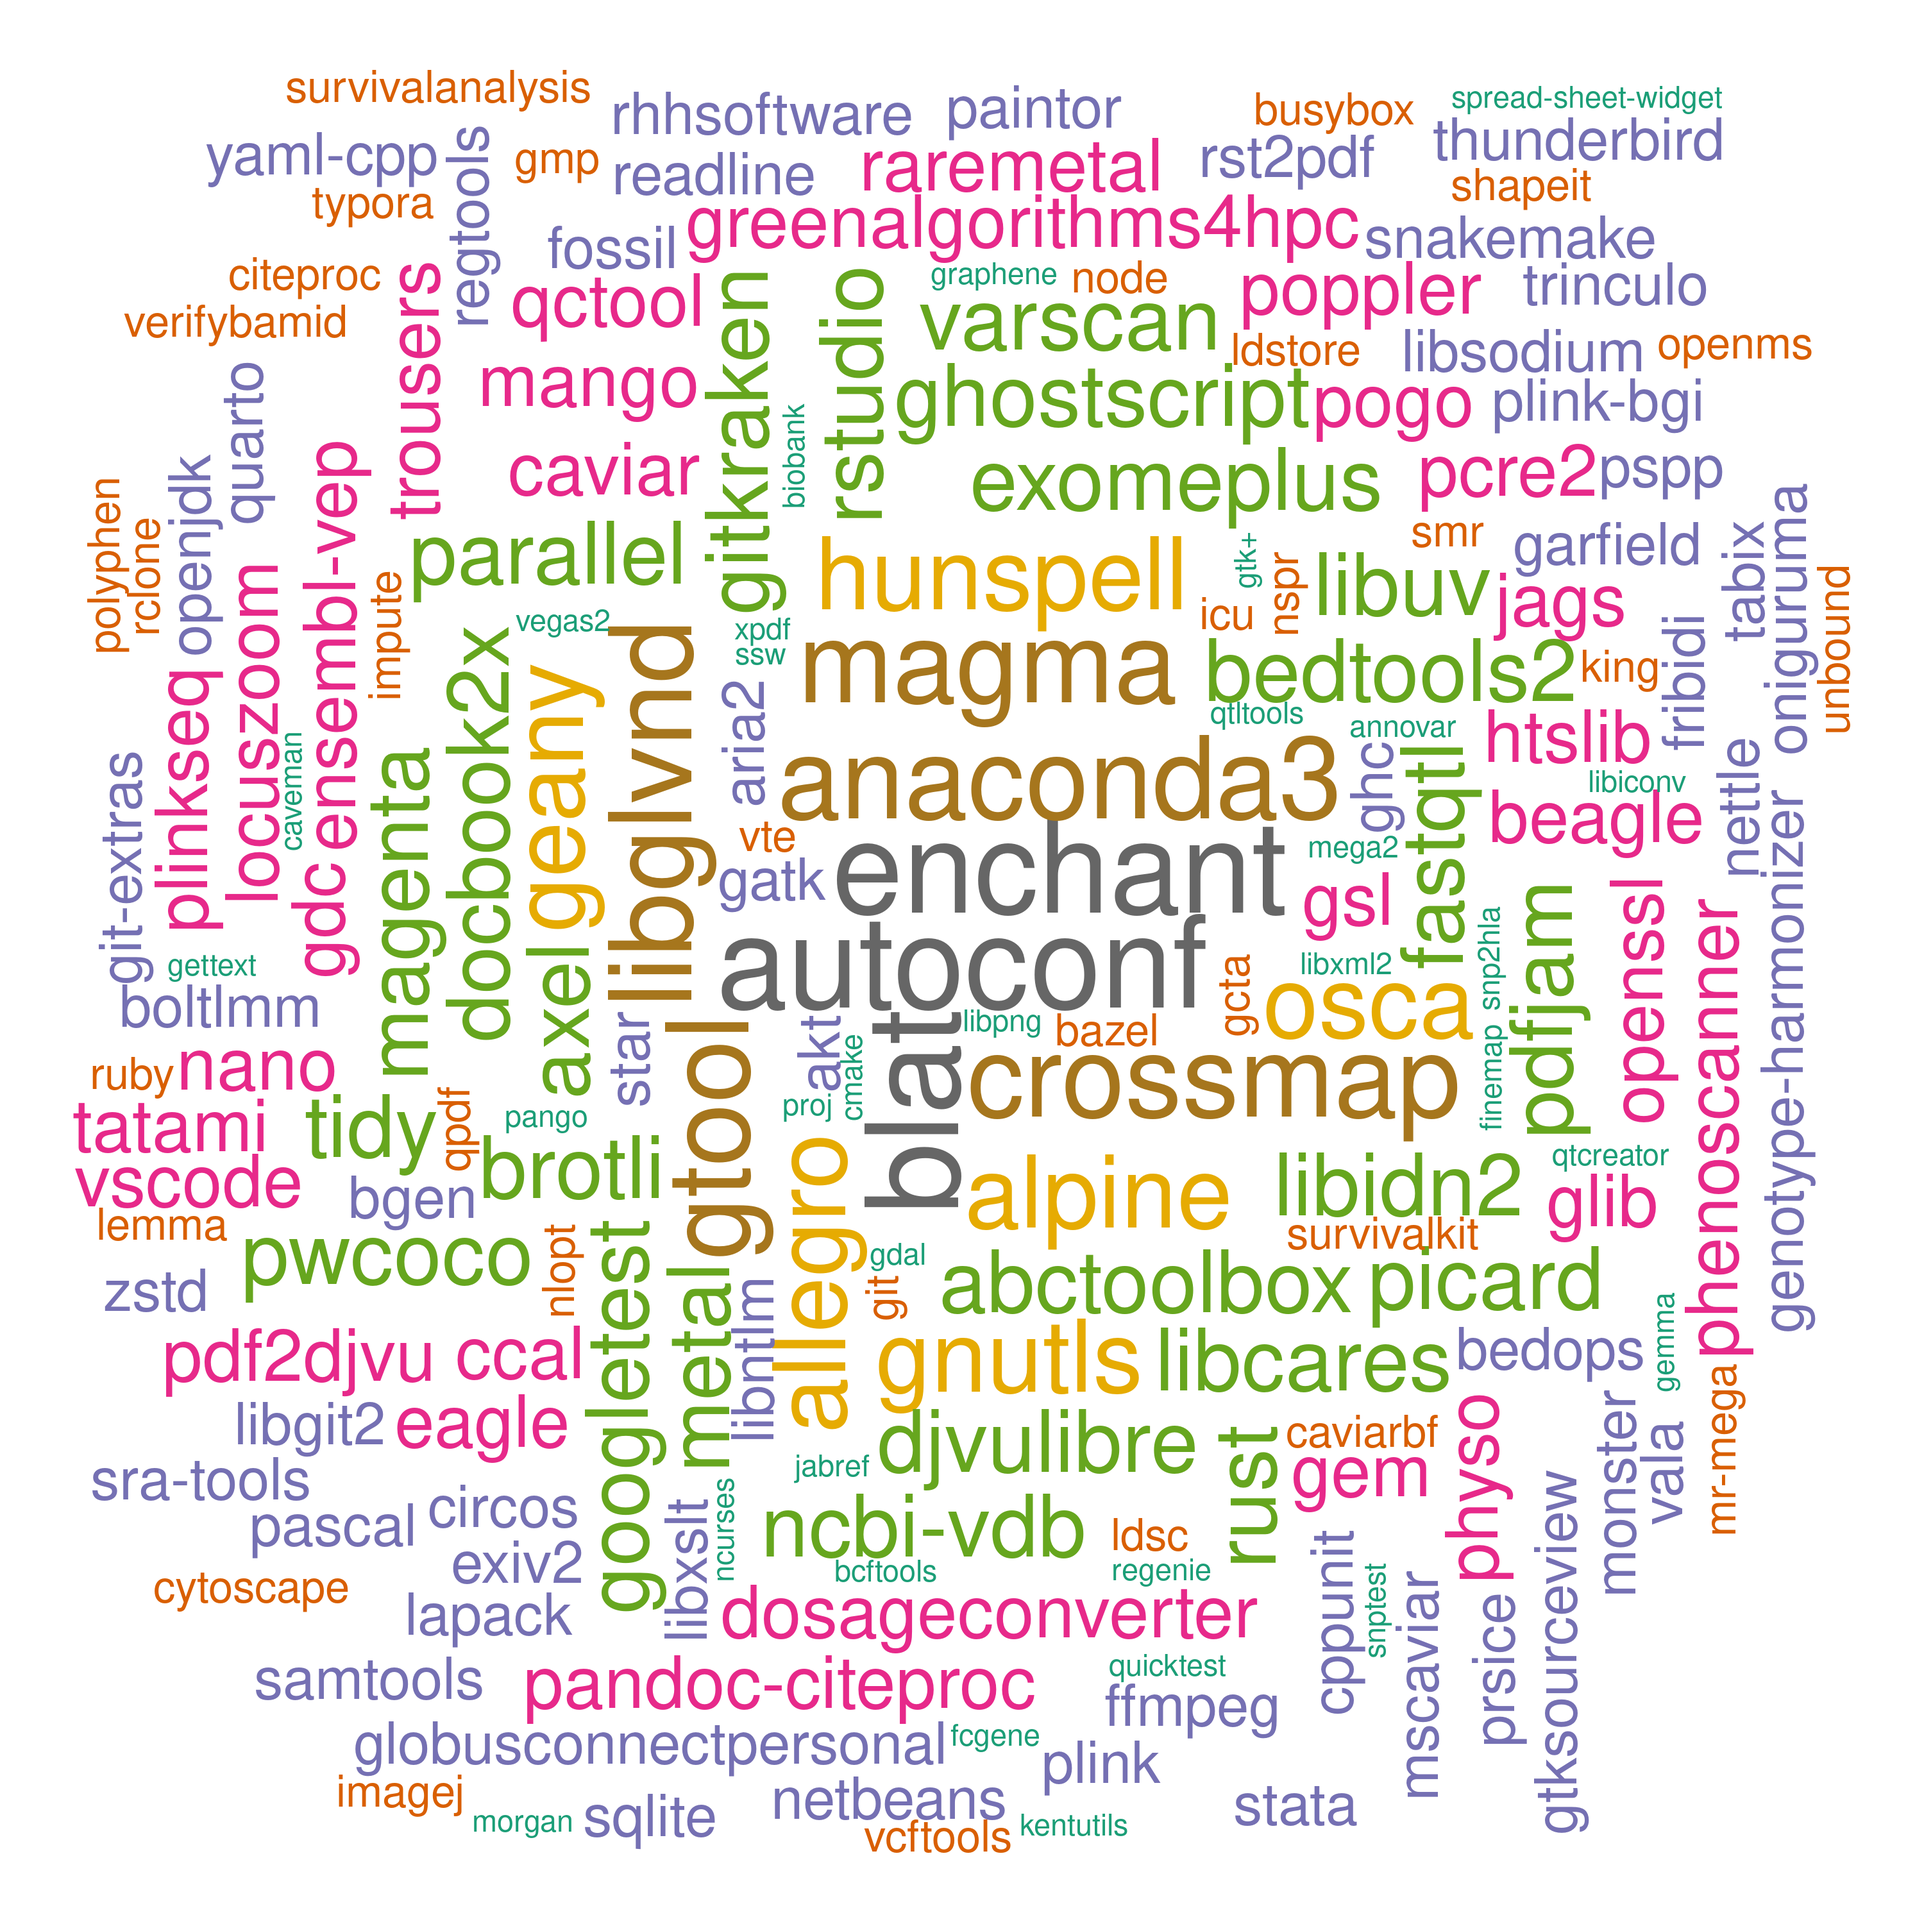
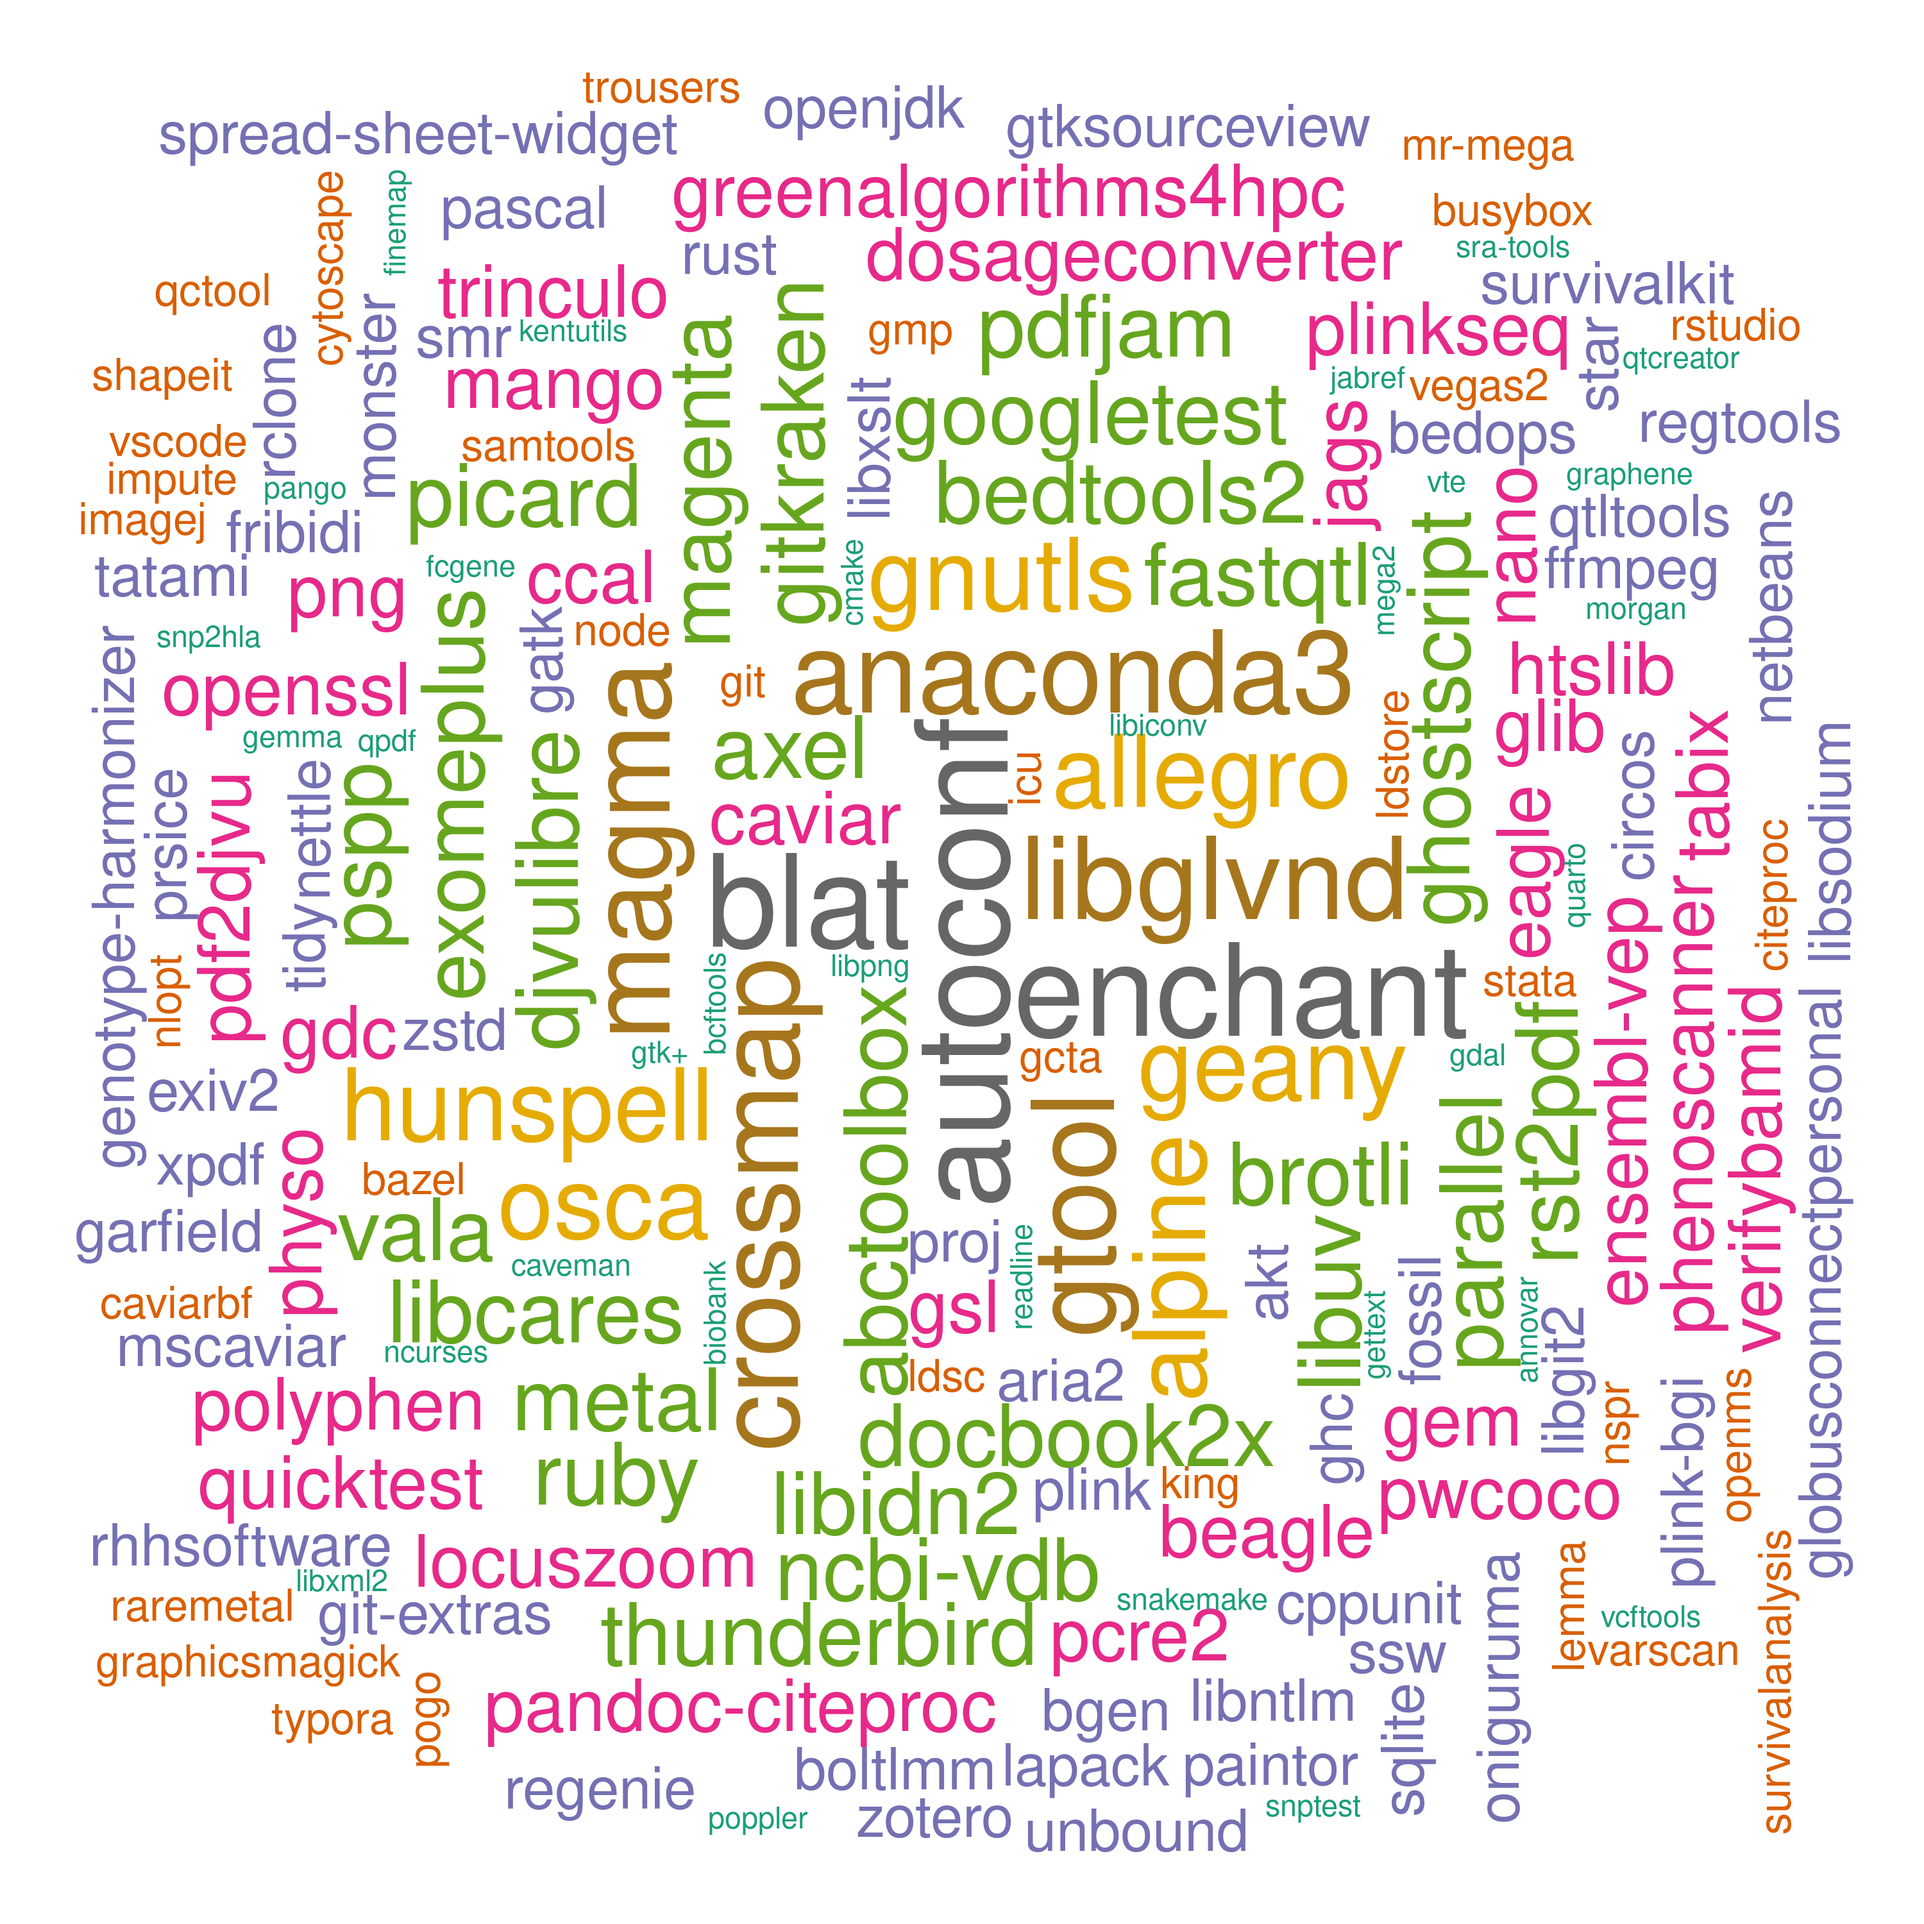
./

Changed region(s): [[0.031, 0.031, 0.961, 0.961]]

diff --git a/systems/ceuadmin.md b/systems/ceuadmin.md
@@ -8,7 +8,7 @@ The CEU software repository is here, **/usr/local/Cluster-Apps/ceuadmin/**.
 
 ![ceuadmin](ceuadmin.png)
 
-A word cloud diagram is generated from the following R script, noting that the importance of software is purely random according to $$Poisson(N,\lambda)$$ where $$N=199$$, $$\lambda=3$$.
+A word cloud diagram is generated from the following R script, noting that the importance of software is purely random according to $$Poisson(N,\lambda)$$ where $$N=200$$, $$\lambda=3$$.
 
 ```bash
 Rscript -e '
